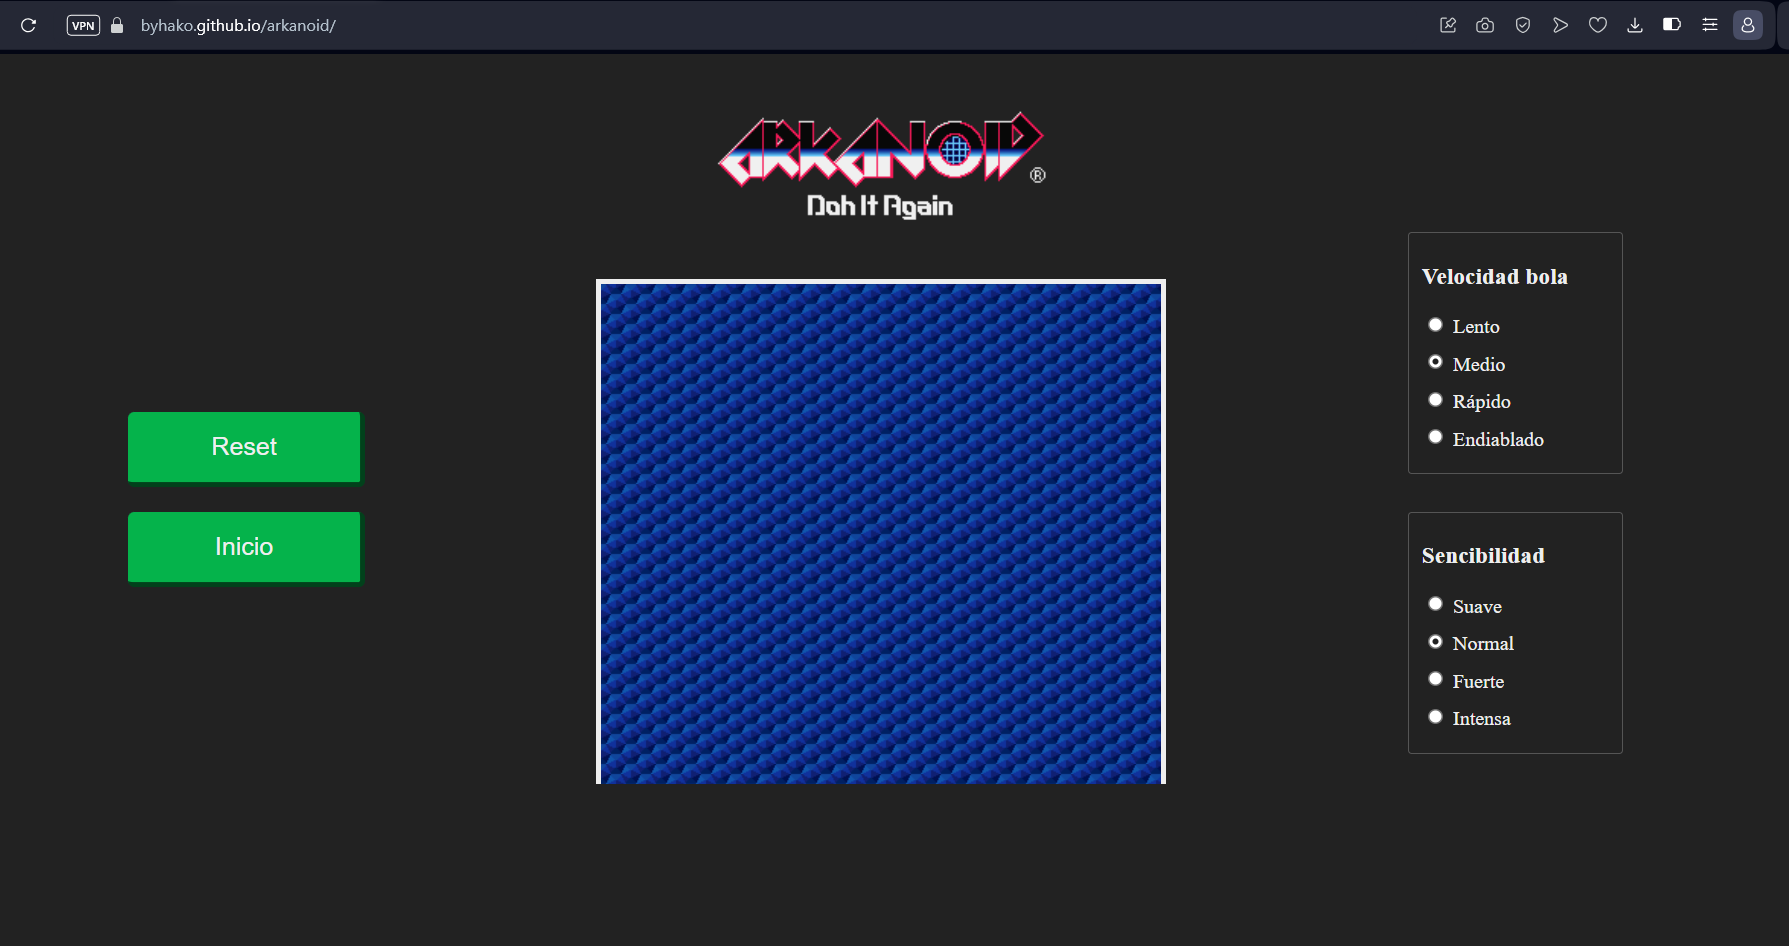
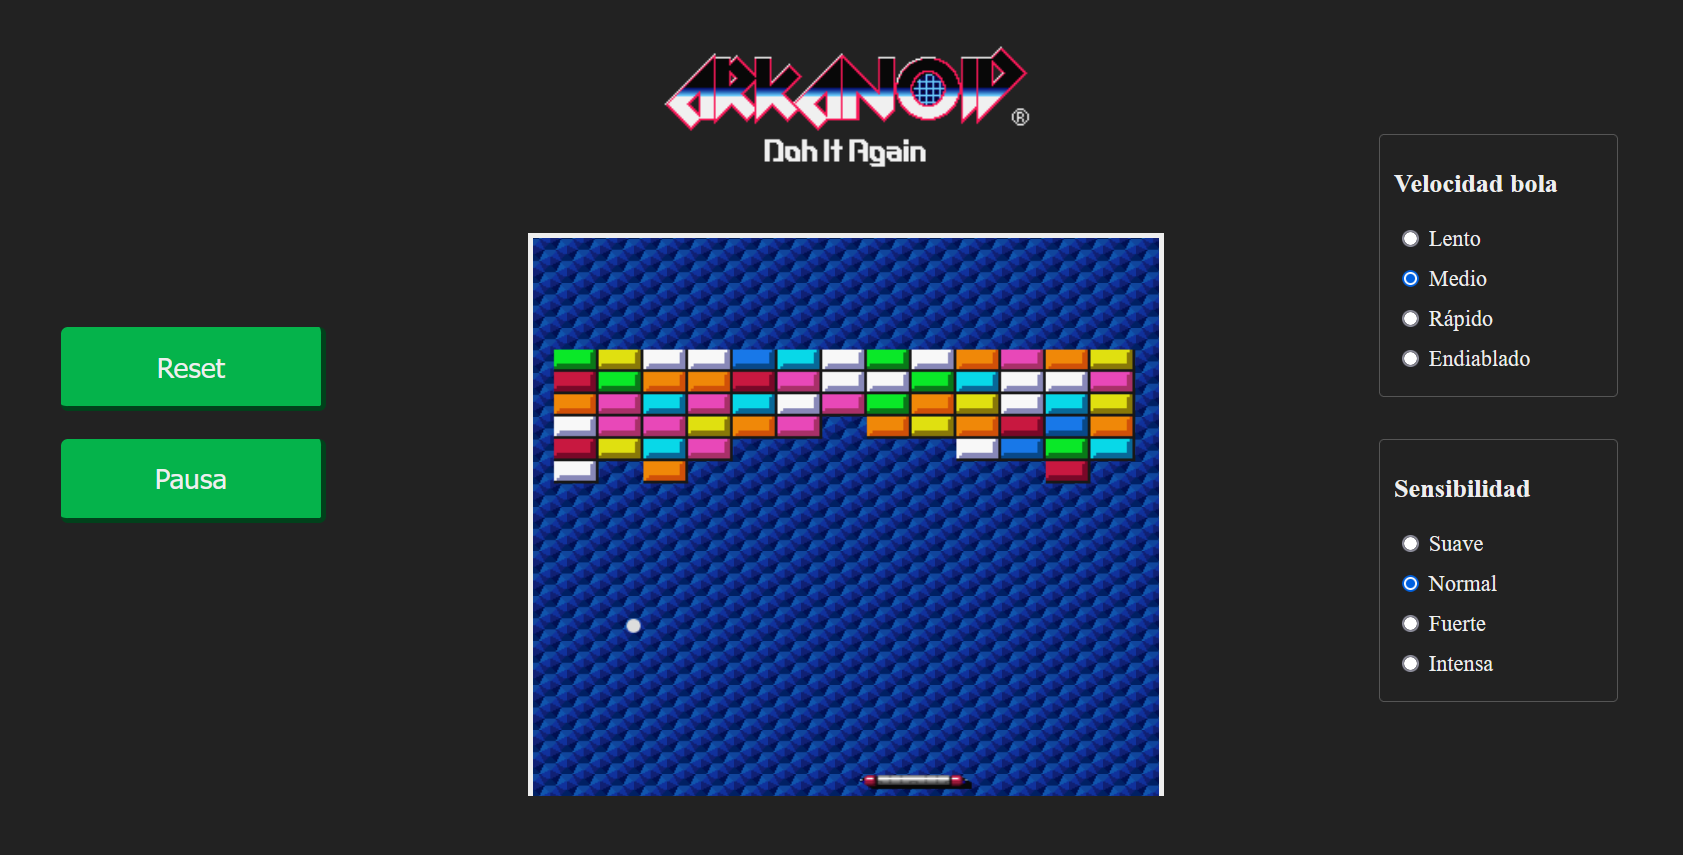
minor change

diff --git a/index.html b/index.html
@@ -39,7 +39,7 @@
       </label>
     </div>
     <div>
-      <h3>Sencibilidad</h3>
+      <h3>Sensibilidad</h3>
       <label>
         <input type="radio" name="sensible" value="3" /> Suave
       </label>
